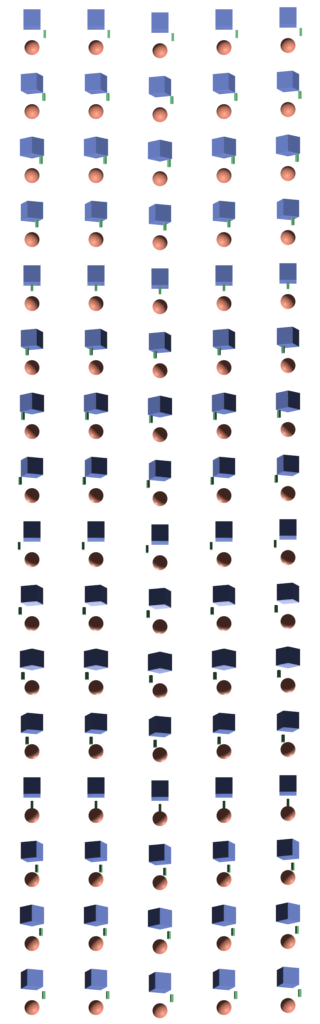
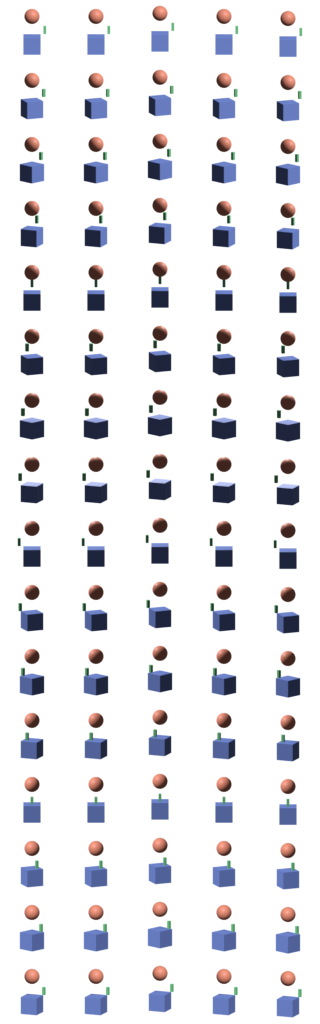
fix(battleforge): fix sprite Y-flip, rotation direction, and camera strafe
- Remove extra Y-flip in Blender composite (sprites were upside down)
- Negate orbit angle in render scripts (rotation was reversed)
- Swap A/D camera strafe directions

diff --git a/scripts/render_spritesheet.py b/scripts/render_spritesheet.py
@@ -55,7 +55,7 @@ def setup_camera():
 
 def position_camera(cam, angle_deg):
     """Place camera at given angle (degrees clockwise from front), looking at origin."""
-    rad = math.radians(angle_deg)
+    rad = math.radians(-angle_deg)
     cam.location = Vector((
         math.sin(rad) * CAMERA_DISTANCE,
         -math.cos(rad) * CAMERA_DISTANCE,
@@ -102,7 +102,7 @@ def composite_sheet(frame_paths, total_cols, total_rows, output_path):
                 for x in range(w):
                     src_i = (y * w + x) * 4
                     # Flip Y: Blender images are bottom-up, sheet is top-down
-                    dst_y = (total_rows - 1 - row) * h + (h - 1 - y)
+                    dst_y = (total_rows - 1 - row) * h + y
                     dst_x = col * w + x
                     dst_i = (dst_y * sheet_w + dst_x) * 4
                     pixels[dst_i:dst_i+4] = src[src_i:src_i+4]

diff --git a/scripts/test_spritesheet.py b/scripts/test_spritesheet.py
@@ -115,7 +115,7 @@ def setup_camera():
 
 def position_camera(cam, angle_deg):
     """Place camera at angle, looking at origin."""
-    rad = math.radians(angle_deg)
+    rad = math.radians(-angle_deg)
     cam.location = Vector((
         math.sin(rad) * CAMERA_DISTANCE,
         -math.cos(rad) * CAMERA_DISTANCE,
@@ -171,7 +171,7 @@ def composite_sheet(frame_paths, total_cols, total_rows, output_path):
             for y in range(h):
                 for x in range(w):
                     src_i = (y * w + x) * 4
-                    dst_y = (total_rows - 1 - row) * h + (h - 1 - y)
+                    dst_y = (total_rows - 1 - row) * h + y
                     dst_x = col * w + x
                     dst_i = (dst_y * sheet_w + dst_x) * 4
                     pixels[dst_i:dst_i+4] = src[src_i:src_i+4]

diff --git a/apps/battleforge/main.c b/apps/battleforge/main.c
@@ -413,8 +413,8 @@ int main(int argc, char *argv[]) {
 
         if (keys[SDL_SCANCODE_W]) { move_x += sinf(cam_yaw); move_z += -cosf(cam_yaw); }
         if (keys[SDL_SCANCODE_S]) { move_x -= sinf(cam_yaw); move_z -= -cosf(cam_yaw); }
-        if (keys[SDL_SCANCODE_A]) { move_x += cosf(cam_yaw); move_z += sinf(cam_yaw); }
-        if (keys[SDL_SCANCODE_D]) { move_x -= cosf(cam_yaw); move_z -= sinf(cam_yaw); }
+        if (keys[SDL_SCANCODE_A]) { move_x -= cosf(cam_yaw); move_z -= sinf(cam_yaw); }
+        if (keys[SDL_SCANCODE_D]) { move_x += cosf(cam_yaw); move_z += sinf(cam_yaw); }
         if (keys[SDL_SCANCODE_LEFT])  cam_yaw -= ROT_SPEED * dt;
         if (keys[SDL_SCANCODE_RIGHT]) cam_yaw += ROT_SPEED * dt;
         if (keys[SDL_SCANCODE_SPACE]) cam_y += MOVE_SPEED * dt;
